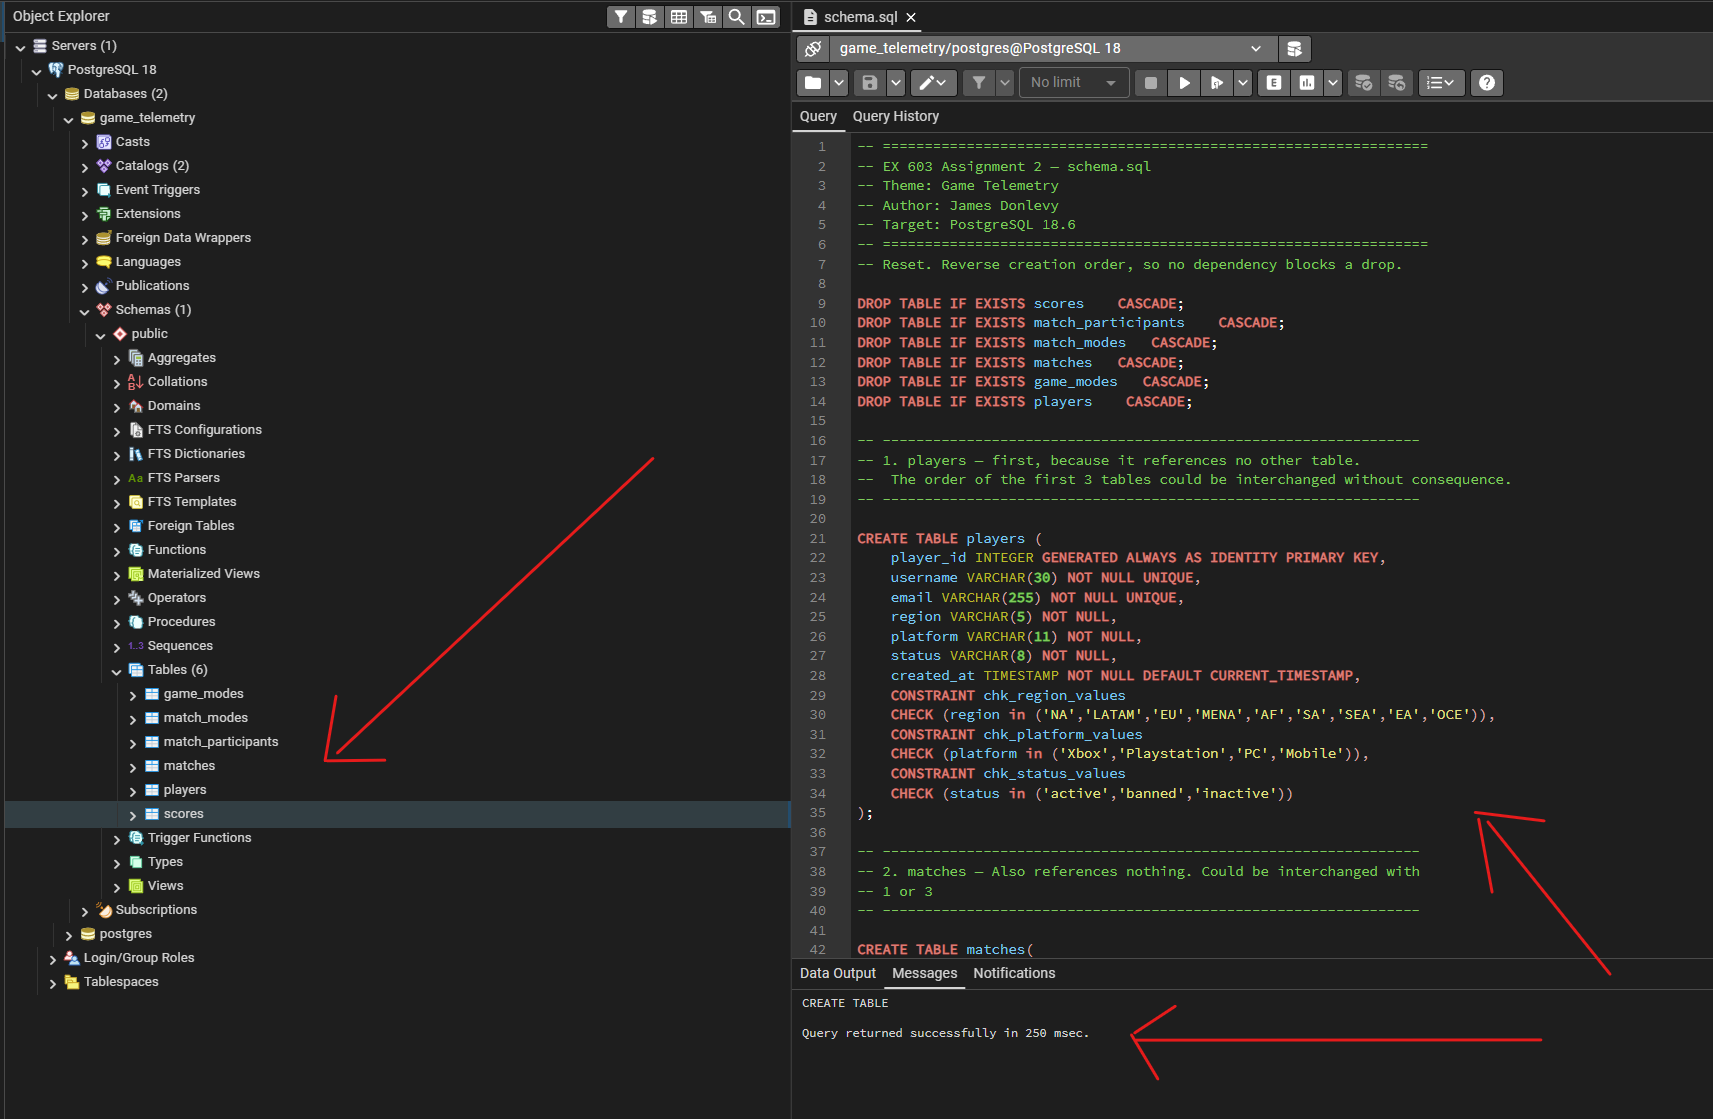
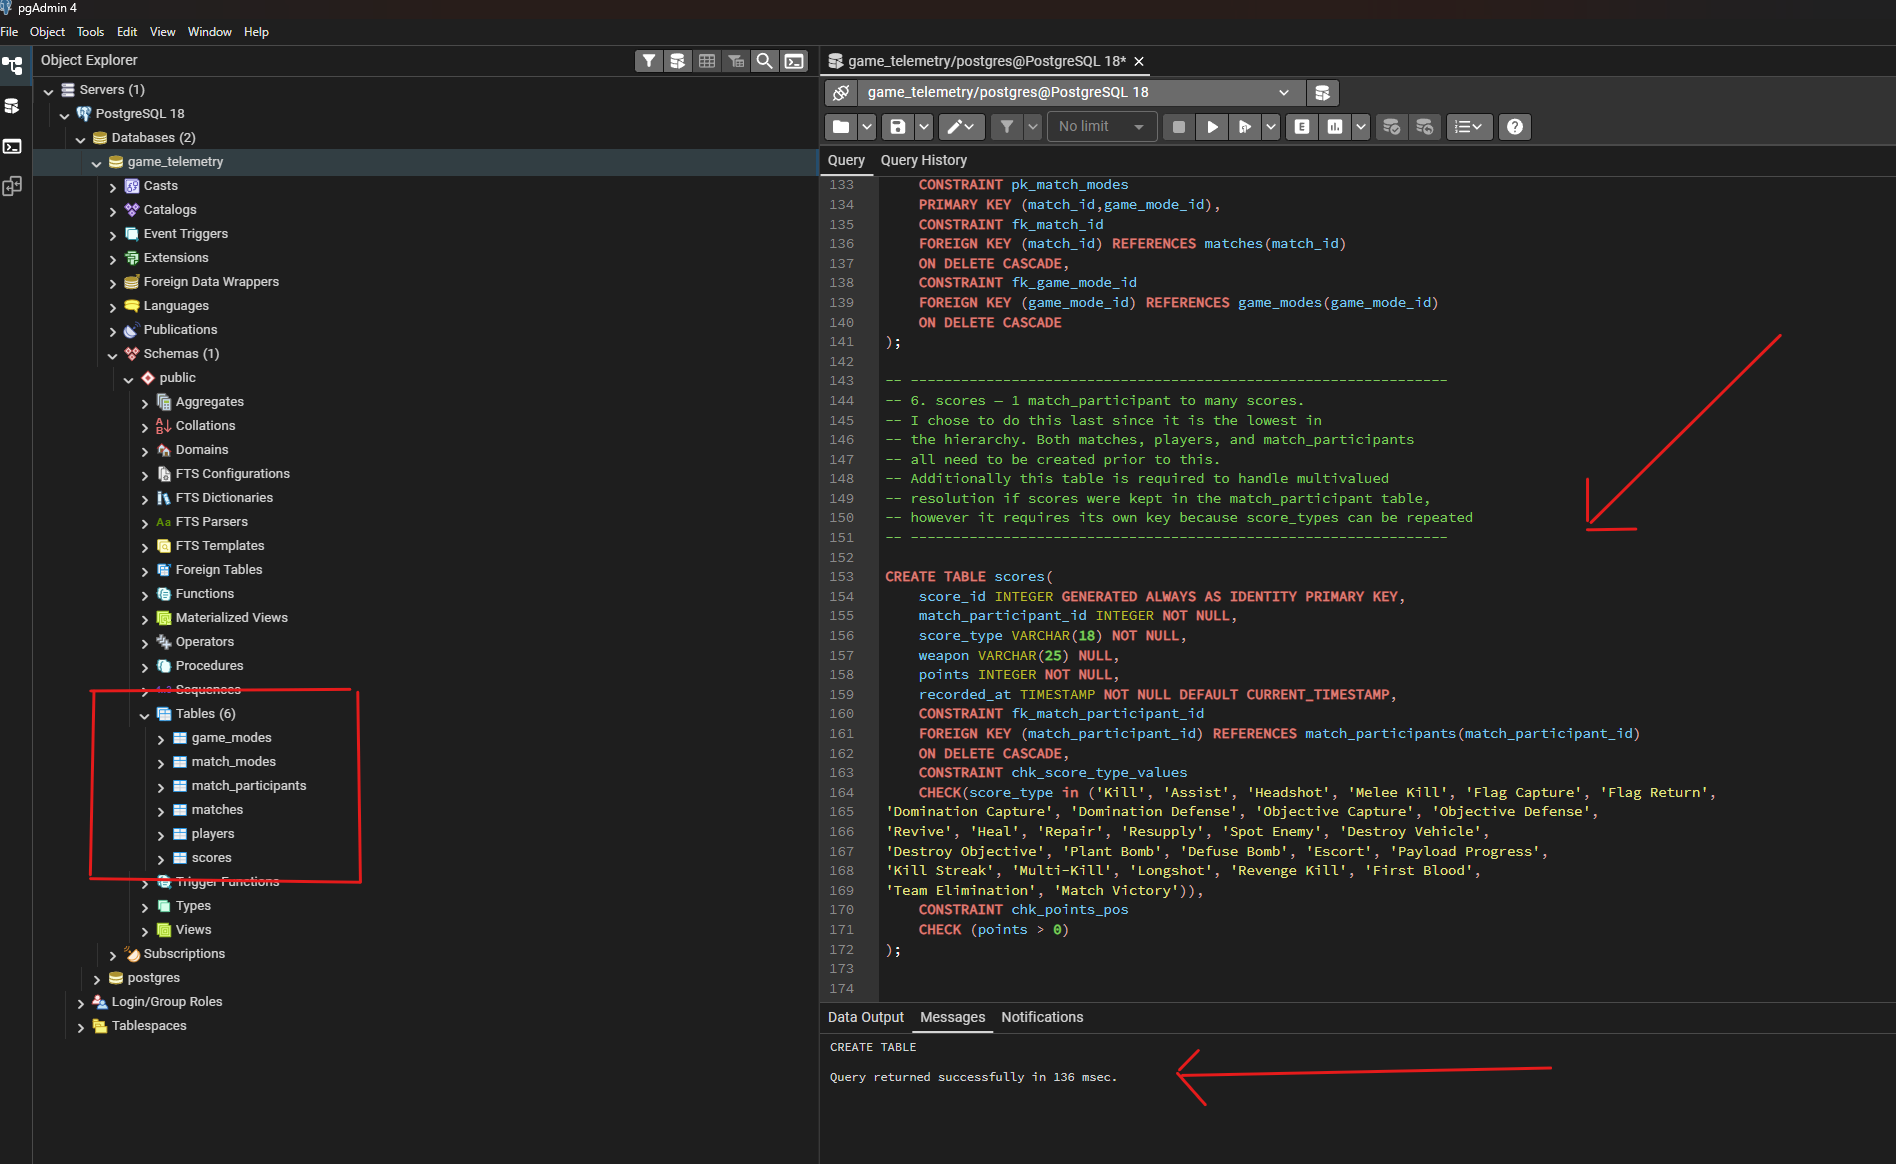
Update ERD, Fix typos, esure consistency

diff --git a/analysis/unit2.md b/analysis/unit2.md
@@ -1,14 +1,27 @@
 # Unit 2 — Analysis of `schema/schema.sql`
 
-## 1. The constraints table
+## 1. Modeling constructs
+
+| Construct | Where it is implemented | How |
+|---|---|---|
+| Composite key | `match_modes` | `pk_match_modes PRIMARY KEY (match_id, game_mode_id)`: match_modes unique identity depends entirely on the 2 foreign keys |
+| Recursive FK | `players.referrer_id` | `referrer_id` is the player that referred this player. Both of whom exist in `players` |
+| Weak entity | `match_modes` | Since no tuple in `match_modes` can be uniquely identified on its own, it is weak. Its key is made entirely of its owners |
+| Multivalued resolution | `scores` | A participant earns many scores in a match. Rather than a repeating list of scores in `match_participants`, each score is a row in its own table with a FK back to the participant. |
+| Derived attribute | `matches.duration` | `GENERATED ALWAYS AS (ended_at - started_at) STORED`: computed from the timestamps. Denormalize vs compute was applied here. Since the value will only need to be updated once, but will be queried often, it is worth storing (low maintenance, queried often) |
+| CHECK constraints | Every table except `match_modes` | Domain lists (e.g. `chk_region_values`, `chk_match_status_values`), non-negative counters (`chk_kills_pos`), ranges (`chk_max_players_between`) and a cross-column rule (`ended_after_started`). See section 3. |
+
+
+## 2. The constraints table
 
 | Foreign key | ON DELETE | Reason |
 |---|---|---|
-| `fk_match_id` — `match_participants.match_id` → `matches.match_id` | `CASCADE` | The match_participants contextually depend on the existance of the match |
+| `fk_match_id` — `match_participants.match_id` → `matches.match_id` | `CASCADE` | The match_participants contextually depend on the existence of the match |
 | `fk_player_id` — `match_participants.player_id` → `players.player_id` | `SET NULL` | The match does not depend contextually on 1 player |
 | `fk_match_id` — `match_modes.match_id` → `matches.match_id` | `CASCADE` | Match_modes depends on the match, without it the match_mode is useless |
-| `fk_game_mode_id` — `match_modes.game_mode_id` → `game_modes.game_mode_id` | `SET NULL` | Without match_mode, game_mode is useless |
+| `fk_game_mode_id` — `match_modes.game_mode_id` → `game_modes.game_mode_id` | `CASCADE` | Without game_mode, match_mode is useless |
 | `fk_match_participant_id` — `scores.match_participant_id` → `match_participants.match_participant_id` | `CASCADE` | Scores can only exist in the context of a match_participant |
+| `fk_referrer_id` — `players.referrer_id` → `players.player_id` | `SET NULL` | Referred players exist independently of referrers |
 
 ### Discussion of ON DELETE choices
 
@@ -18,41 +31,49 @@
 
 **Who or what is affected:** As a result of match deletion the match_participant data is no longer of any use. It is only in the context of a match that data is relevant. It should be deleted too
 
-**Under the alternative:** If the ON DELETE behavior were RESTRICT, the system would grow without check and would encounter performance issues or exceed budget for server costs. If the behavior were to be set null, the match_participants would need to be deleted seperately which is a maintnance item that is not required.
+**Under the alternative:** If the ON DELETE behavior were RESTRICT, the system would grow without check and would encounter performance issues or exceed budget for server costs. SET NULL would disagree with the column's definition (NOT NULL).
 
 #### `match_participants.player_id` → `players` (SET NULL)
 
-**The event:** This ON DELETE behavior should not be excersized. A players account should only ever be soft deleted (set status to inactive) to prevserve that match_participant data. However if players grows too large it may be a good stategy to delete some inactive users.
+**The event:** This ON DELETE behavior should not be exercised. A player's account should only ever be soft deleted (set status to inactive) to preserve that match_participant data. However if players grows too large it may be a good strategy to delete some inactive users.
 
-**Who or what is affected:** When a player is deleted the match_participant table should set null because that players match data contributed to a team.
+**Who or what is affected:** When a player is deleted the match_participant table should set null because that player's match data contributed to a team.
 
-**Under the alternative:** If set to CASCADE aggregate team data would be impossible such as a teams total score for a given match. RESTRICT could work but wouldn't allow the flexiblility for a dba to manage the player table size.
+**Under the alternative:** If set to CASCADE aggregate team data would be impossible such as a team's total score for a given match, additionally the CASCADE would continue to scores where rows would be silently deleted. RESTRICT could work but wouldn't allow the flexibility for a dba to manage the player table size.
+
+#### `players.referrer_id` → `players` (SET NULL)
+
+**The event:** As mentioned above players should not be deleted however it may be required as a part of a maintenance exercise.
+
+**Who or what is affected:** When a referrer is deleted the referred player should not also be deleted. They do not depend on each other, they only know about the referrer.
+
+**Under the alternative:** CASCADE would result in a player unintentionally being deleted. RESTRICT would prevent the maintenance exercise from completing.
 
 #### `match_modes.match_id` → `matches` (CASCADE)
 
-**The event:** Matches are deleted as part of maintnenance as discusses previously.
+**The event:** Matches are deleted as part of maintenance as discussed previously.
 
 **Who or what is affected:** When matches are deleted match_mode is no longer relevant. We would never need to know about match_modes outside the context of a match
 
-**Under the alternative:** SET NULL or RESTRICT would allow data with no meaning to take up space in the db.
+**Under the alternative:** SET NULL would disagree with the column's definition (NOT NULL). As described previously RESTRICT would allow the system to grow without check
 
 #### `match_modes.game_mode_id` → `game_modes` (CASCADE)
 
-**The event:** When a game_mode is removed from availability, perhaps a depreciated mode.
+**The event:** When a game_mode is removed from availability, perhaps a deprecated mode.
 
 **Who or what is affected:** Without 1 part of a composite key there is no value to this weak table. It has no columns of its own. Its sole purpose is to resolve the m:n relationship between matches and modes. Without the mode it is useless.
 
-**Under the alternative:** SET NULL or RESTRICT would allow data with no meaning to take up space in the db.
+**Under the alternative:** SET NULL would disagree with the column's definition (NOT NULL). As described previously RESTRICT would allow the system to grow without check
 
 #### `scores.match_participant_id` → `match_participants` (CASCADE)
 
-**The event:** Matches are deleted as maintanence activity as described above.
+**The event:** Matches are deleted as maintenance activity as described above.
 
-**Who or what is affected:** For the same reasons that match_participants are no longer relevant without the context of a match the score is irrelevant without the context of a match_participant. It provides no contex value.
+**Who or what is affected:** For the same reasons that match_participants are no longer relevant without the context of a match the score is irrelevant without the context of a match_participant. It provides no context value.
 
-**Under the alternative:** SET NULL or RESTRICT would allow data with no meaning to take up space in the db.
+**Under the alternative:** SET NULL would disagree with the column's definition (NOT NULL). As described previously RESTRICT would allow the system to grow without check
 
-## 2. The CHECK constraints
+## 3. The CHECK constraints
 
 
 ### `players`
@@ -61,19 +82,19 @@
 
 **Invalid state prevented:** Enforces only specific regional values
 
-**How it could otherwise arise:** Prevents different platforms from sending data that conform to this list
+**How it could otherwise arise:** Typos and errors from the application
 
 #### `chk_platform_values` — `platform IN ('Xbox','Playstation','PC','Mobile')`
 
-**Invalid state prevented:** Enforces only certain gaming platforms to write to the telemetry system
+**Invalid state prevented:** Enforces only certain valid values for gaming platforms
 
-**How it could otherwise arise:** Prevents other platforms that perhaps have not been tested in the platform, or errors in naming
+**How it could otherwise arise:** Typos and errors from the application
 
 #### `chk_status_values` — `status IN ('active','banned','inactive')`
 
 **Invalid state prevented:** Enforces only valid account states
 
-**How it could otherwise arise:** Prevents ambiguitiy in the field, which leads to difficulty grouping by the field
+**How it could otherwise arise:** Typos and errors from the application
 
 ### `matches`
 
@@ -81,19 +102,19 @@
 
 **Invalid state prevented:** Ensures server region matches the same valid values as the players region
 
-**How it could otherwise arise:** Prevents errors or mispelling proliferating through the db.
+**How it could otherwise arise:** Typos and errors from the application
 
 #### `chk_match_status_values` — `match_status IN ('MATCHMAKING','LOBBY','IN_PROGRESS','CANCELLED','COMPLETE')`
 
 **Invalid state prevented:** Enforces only specific match status
 
-**How it could otherwise arise:** Prevents unkown match status from entering the db.
+**How it could otherwise arise:** Typos and errors from the application
 
 #### `ended_after_started` — `ended_at IS NULL OR ended_at >= started_at`
 
 **Invalid state prevented:** Ensures the end timestamp of a match occurs after the start timestamp
 
-**How it could otherwise arise:** Prevents a negative duration from being computed
+**How it could otherwise arise:** Timezone discrepancy between server and client could introduce error.
 
 ### `game_modes`
 
@@ -101,15 +122,15 @@
 
 **Invalid state prevented:** Enforces only the game modes that are offered
 
-**How it could otherwise arise:** Prevents new game modes from entering without proper testing
+**How it could otherwise arise:** Typos and errors from the application
 
-#### `chk_max_players_between` — `max_players > 2 AND max_players < 20`
+#### `chk_max_players_between` — `max_players >= 2 AND max_players <= 20`
 
 **Invalid state prevented:** Ensures data consistency in matches. There are 2 teams for any game which requires at least 1 player per team. No game modes offer more than 10 per team (20)
 
 **How it could otherwise arise:** Bad platform code could lead to incorrect player counts
 
-#### `chk_min_players_between` — `min_players > 2 AND min_players < 20`
+#### `chk_min_players_between` — `min_players >= 2 AND min_players <= 20`
 
 **Invalid state prevented:** Similar to max_players, this check enforces the data makes sense
 
@@ -119,7 +140,7 @@
 
 #### `chk_team_name_values` — `team_name IN ('TERMINATORS','HUMANS')`
 
-**Invalid state prevented:** Prevents an unkown team name from entering the DB
+**Invalid state prevented:** Prevents an unknown team name from entering the DB
 
 **How it could otherwise arise:** There is no valid reason this would arise other than in error
 
@@ -149,15 +170,15 @@
 
 #### `chk_result_values` — `result IN ('WIN','LOSS')`
 
-**Invalid state prevented:** Prevents any alternative result to a match (like 'Forfiet' which should be win)
+**Invalid state prevented:** Prevents any alternative result to a match (like 'Forfeit' which should be win for the team remaining, loss for the forfeiting team)
 
-**How it could otherwise arise:** If a bad update tried to send a result no included in the list
+**How it could otherwise arise:** If a bad update tried to send a result not included in the list
 
 ### `scores`
 
 #### `chk_score_type_values` — `score_type IN ('Kill', 'Assist', ..., 'Match Victory')`
 
-**Invalid state prevented:** Ensures score types are belong to a known list
+**Invalid state prevented:** Ensures score types belong to a known list
 
 **How it could otherwise arise:** If a bad update tried to send an unknown score type
 
